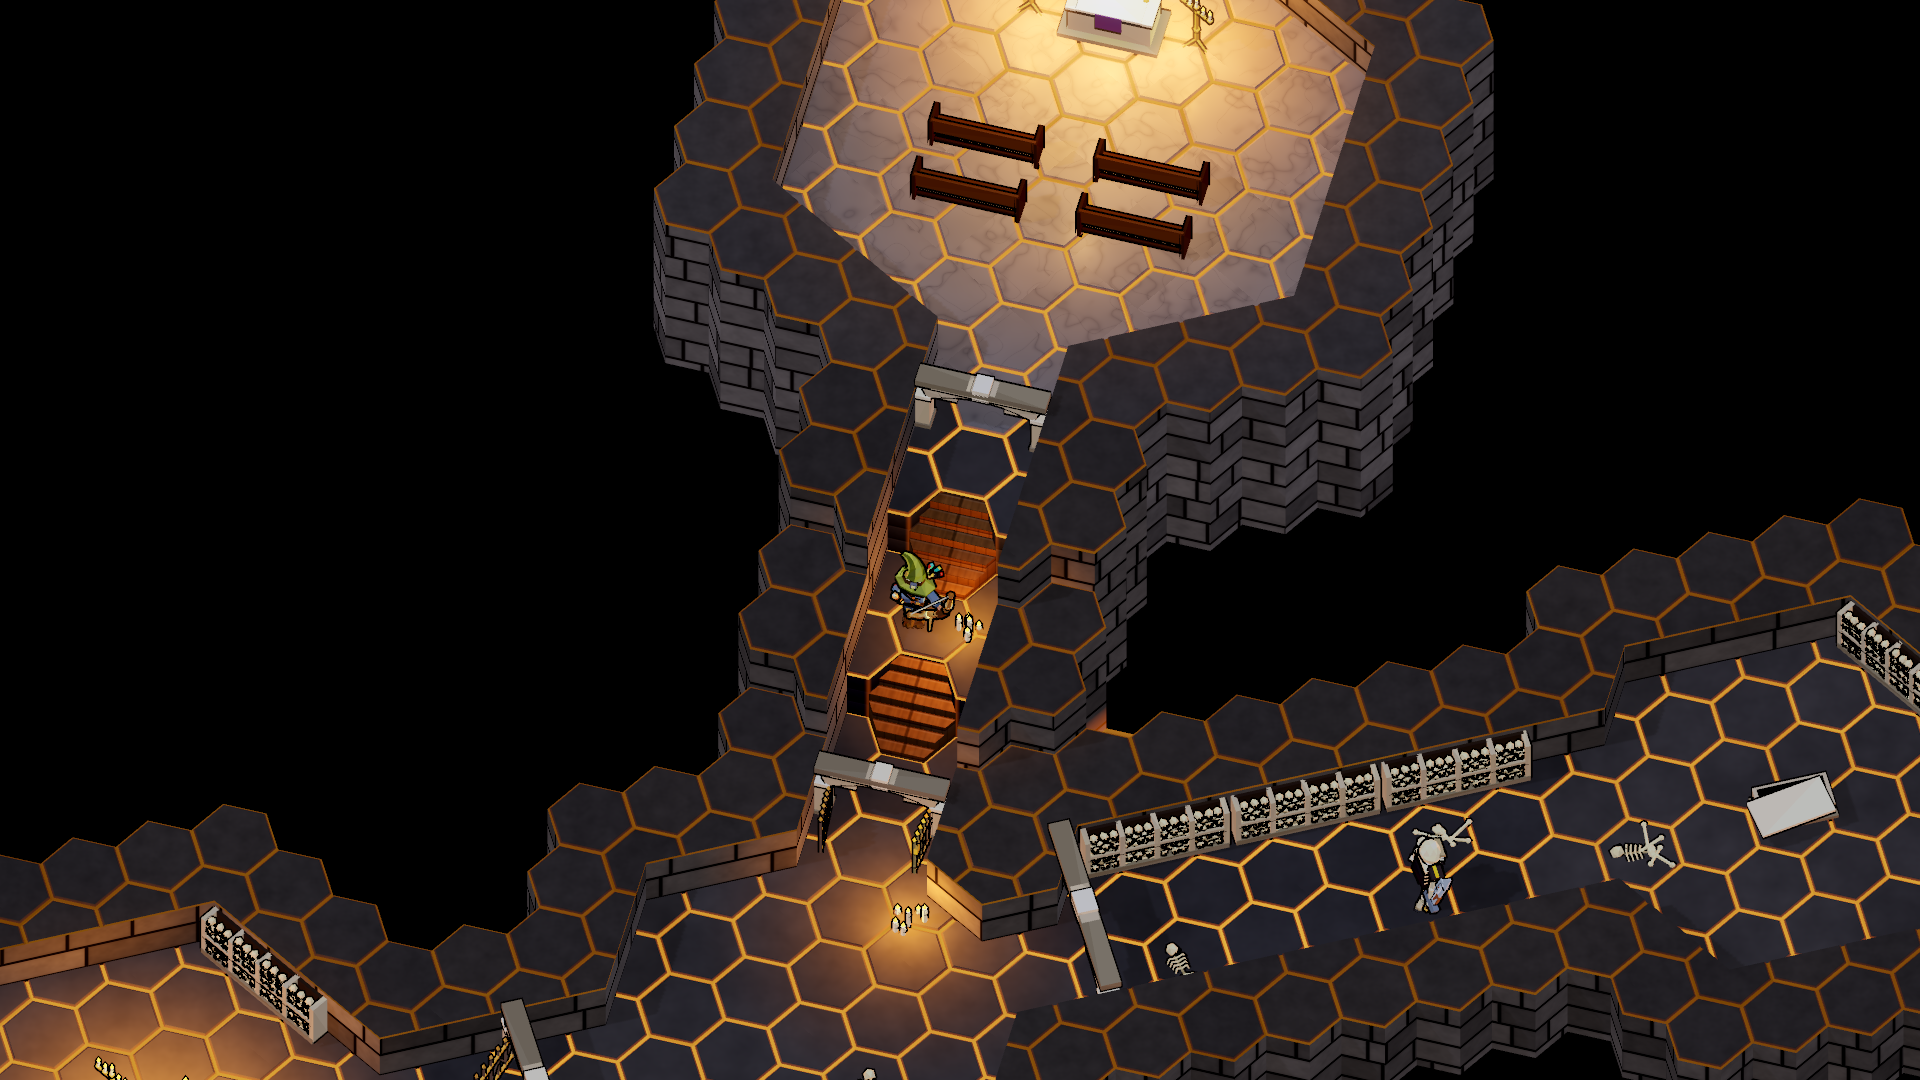
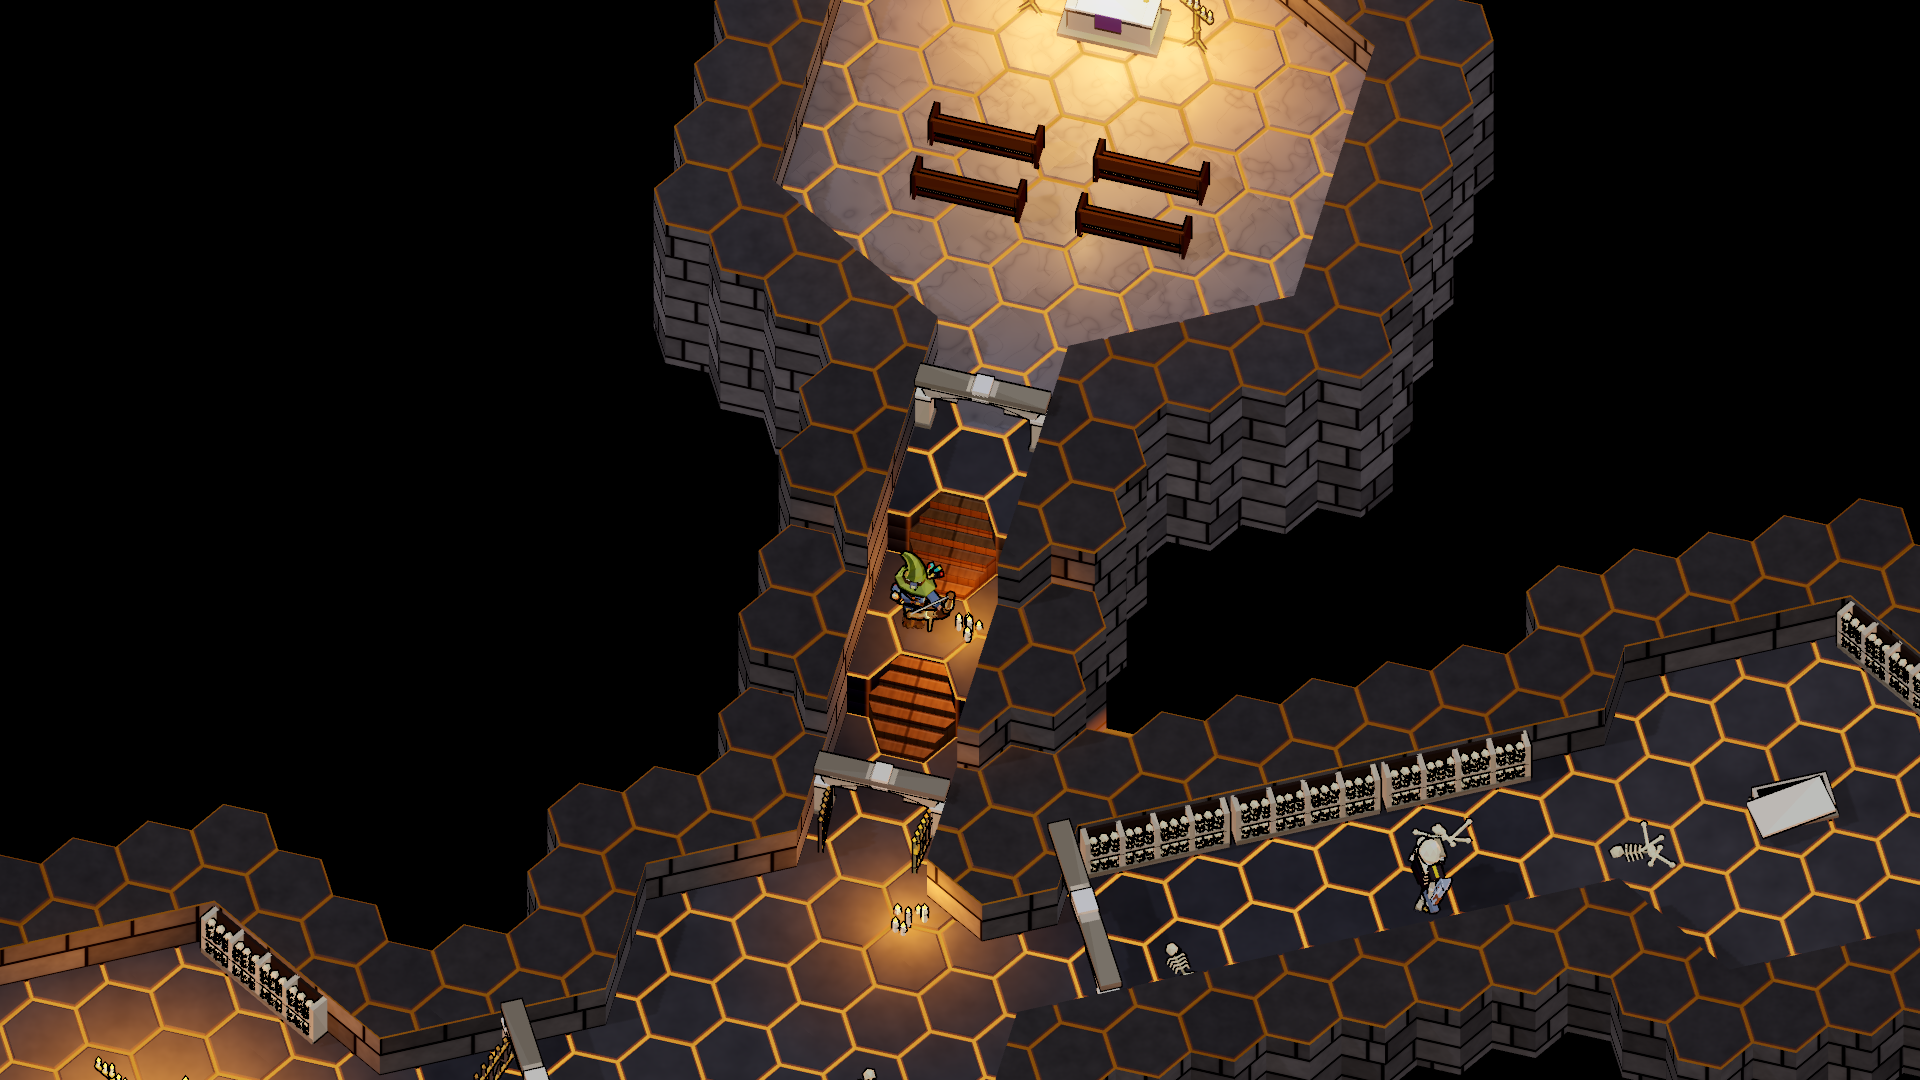
Crypt ossuary: skulls only (the user's call)

Changed region(s): [[0.5625, 0.6722, 0.8125, 0.825], [0.0938, 0.8556, 0.1562, 0.9472], [0.9375, 0.5806, 1.0, 0.6417]]

diff --git a/docs/design/crypt-section.md b/docs/design/crypt-section.md
@@ -19,7 +19,7 @@ walls of skulls and bones, iron gates and candles, and how the crypt meets the f
 | **Light** | as shown | The crypt has no daylight. Its bright parts are candle light only. The dark parts get only a dim, cool ambient |
 
 The kit is the same in both sets: sarcophagi (effigy, cross or pushed-open lid), an ossuary wall (niches packed with
-bands of long bones between rows of skulls, its top open with a row of skulls on it), an iron bar gate in a stone arch
+rows of skulls, its top open with one more row on it), an iron bar gate in a stone arch
 (shut, half open or open), a plain stone arch, floor candles, a standing candelabra and a fallen skeleton. The church above also has
 pews and an altar.
 
@@ -161,7 +161,8 @@ anything. The bones are a little weak."
   also don't sell as skulls." So the niches are stacked the way a charnel house stacks them: bands of long bones laid
   lengthwise between rows of skulls facing out. A heap on the open top (skulls lying in the dips of the row below) gave
   way to the user's "Lets just try making the top row like the bottom two, just a slightly jittered row of skulls": the
-  open top carries one more row of skulls.
+  open top carries one more row of skulls. Asked what the white between the skull rows was (the long bones), the user:
+  "Just skulls for now." The niches are rows of skulls only.
 
 The two sets: "I want both a vault and chapel, but they are too similar to eachother." Open: how to set them apart.
 
